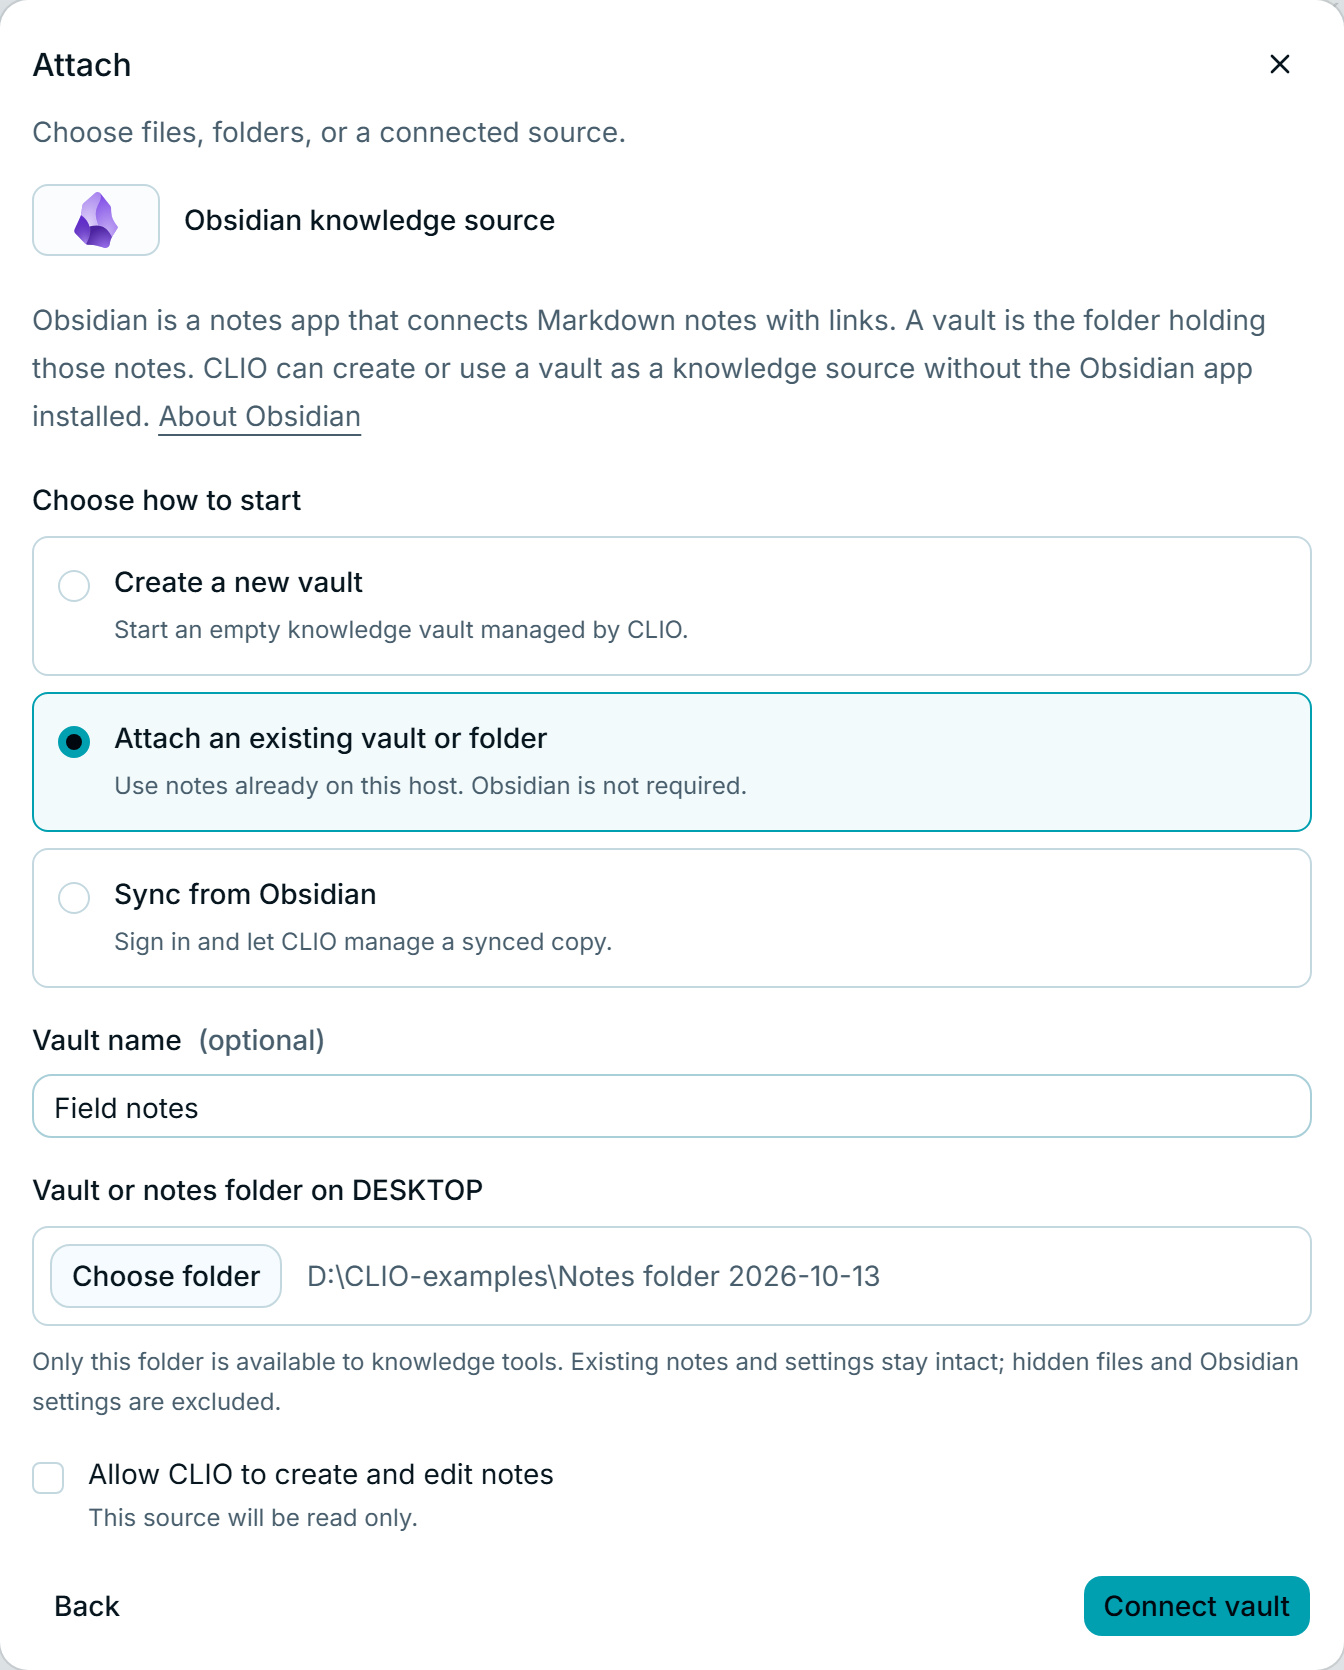
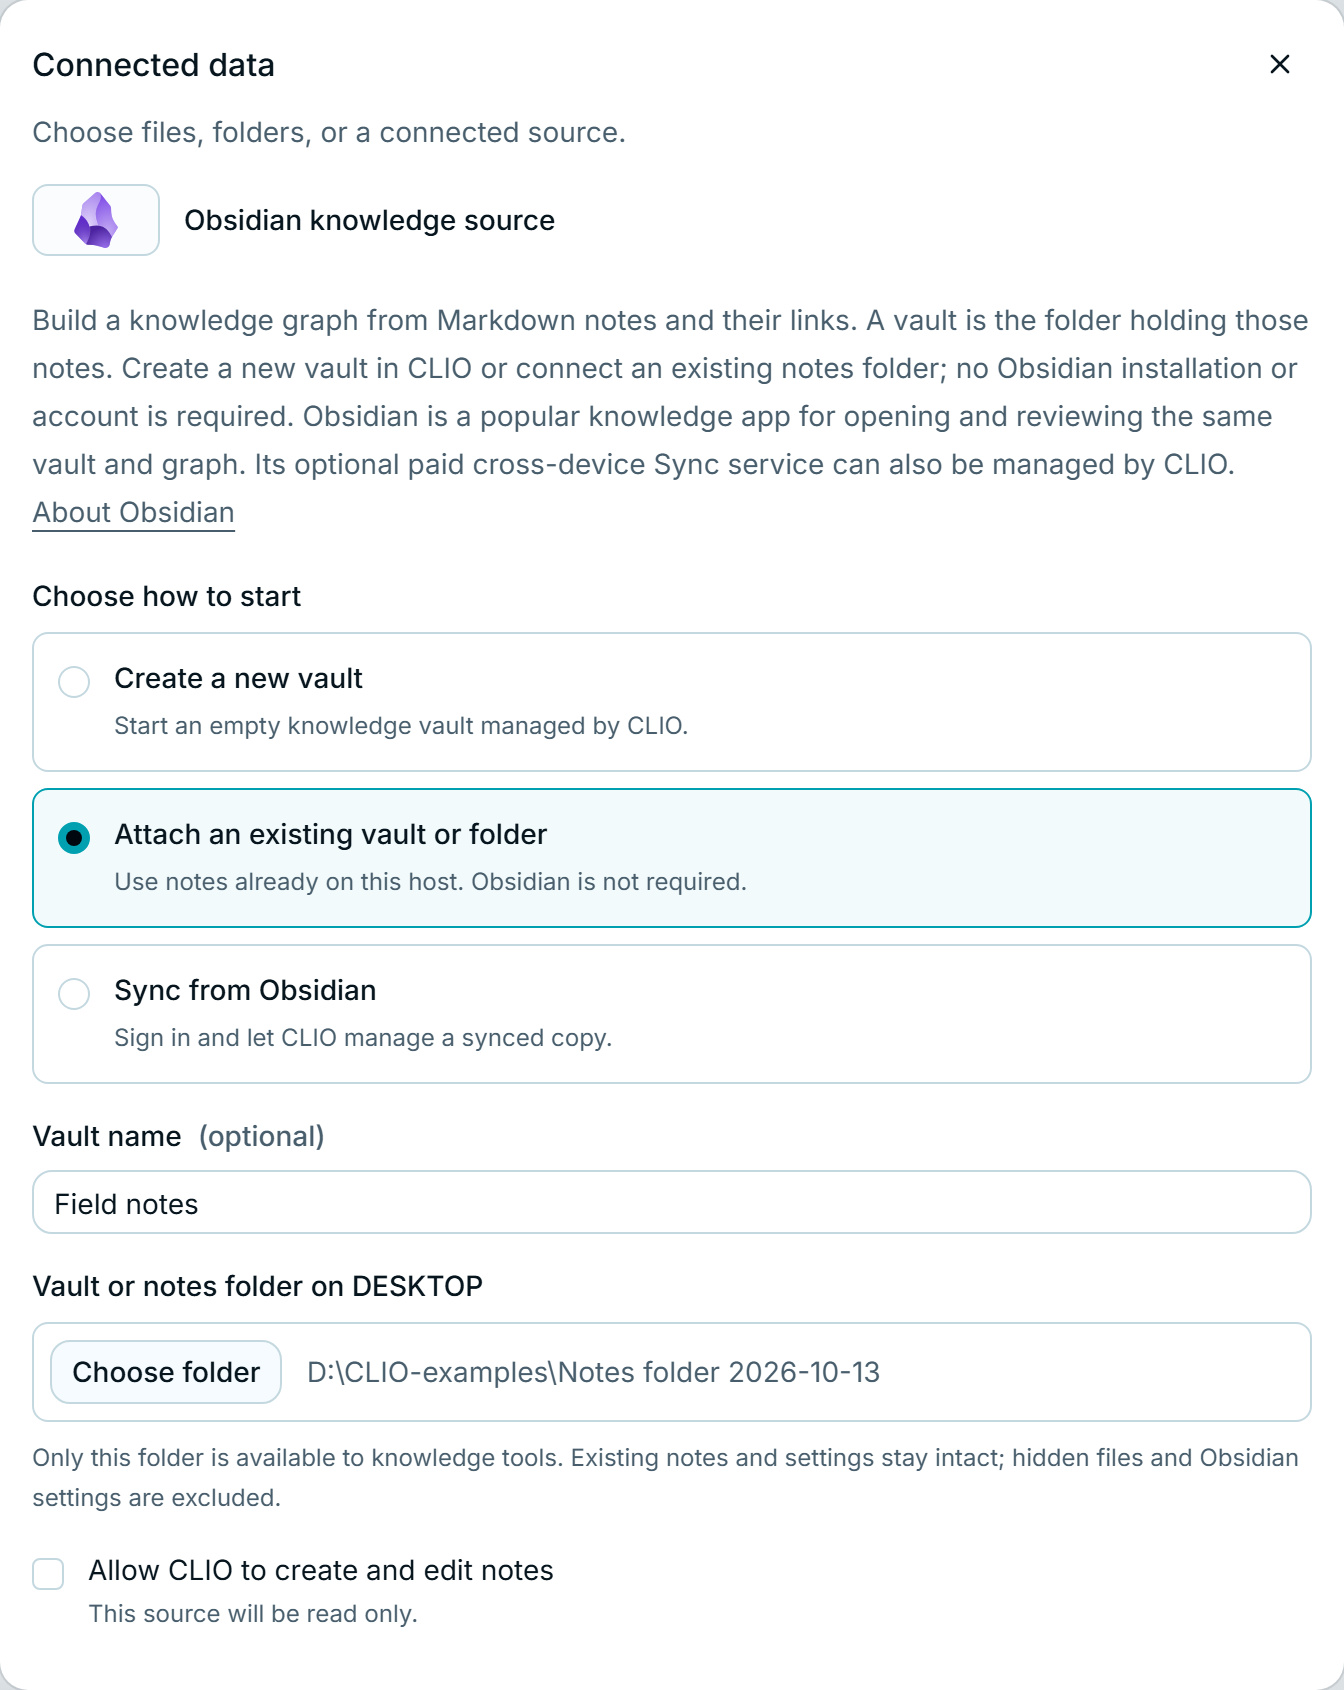
docs(sources): show new vault and connect actions with provider info (#1750)

diff --git a/site/e2e/knowledge-source.spec.ts b/site/e2e/knowledge-source.spec.ts
@@ -10,7 +10,9 @@ for (const width of [390, 1440]) {
     await expect(page.locator('.sl-markdown-content')).toContainText('fictional');
     expect(await page.evaluate(() => document.documentElement.scrollWidth - innerWidth)).toBeLessThanOrEqual(1);
     const captures = page.locator('.guide-screenshot');
-    await expect(captures).toHaveCount(8);
+    await expect(captures).toHaveCount(9);
+    await expect(page.locator('.sl-markdown-content')).toContainText('New vault and Connect');
+    await expect(page.locator('.sl-markdown-content')).toContainText('info icon');
     await expect(page.locator('.sl-markdown-content')).toContainText('Create a new vault');
     await expect(page.locator('.sl-markdown-content')).toContainText('Attach an existing vault or folder');
     await expect(page.locator('.sl-markdown-content')).toContainText('Obsidian app does not need to be installed');

diff --git a/site/src/assets/captures/README.md b/site/src/assets/captures/README.md
@@ -76,3 +76,19 @@ rendered-page review, and verification receipts are archived under
 `D:/Libraries/Videos/clio_recordings/2026-10-13-obsidian-managed-vaults/`.
 The personal-vault acceptance capture and file manifests remain private and are
 excluded from the website and public capture archive.
+
+## Knowledge source actions and provider information — 13 October 2026
+
+The Settings, new-vault, existing-folder, and Sync captures were refreshed after
+adding explicit New vault and Connect actions. A fifth capture shows the shared
+provider info icon, with the knowledge graph explained before the optional
+Obsidian app and paid Sync service. The other four fictional notebook captures
+remain unchanged. The current manifest records nine image hashes.
+
+Live checks used Settings to create an empty vault and connect a fictional
+Markdown folder read only, then opened their source-named graph tabs. Provider
+info was checked on hover, keyboard focus, and touch; Settings and the connection
+flow were reviewed at 390px. The final media comes from the production build,
+with untouched originals and checks archived at
+`D:/Libraries/Videos/clio_recordings/2026-10-13-knowledge-source-actions/`.
+Authenticated remote Sync was not exercised. No personal vault data appears.
